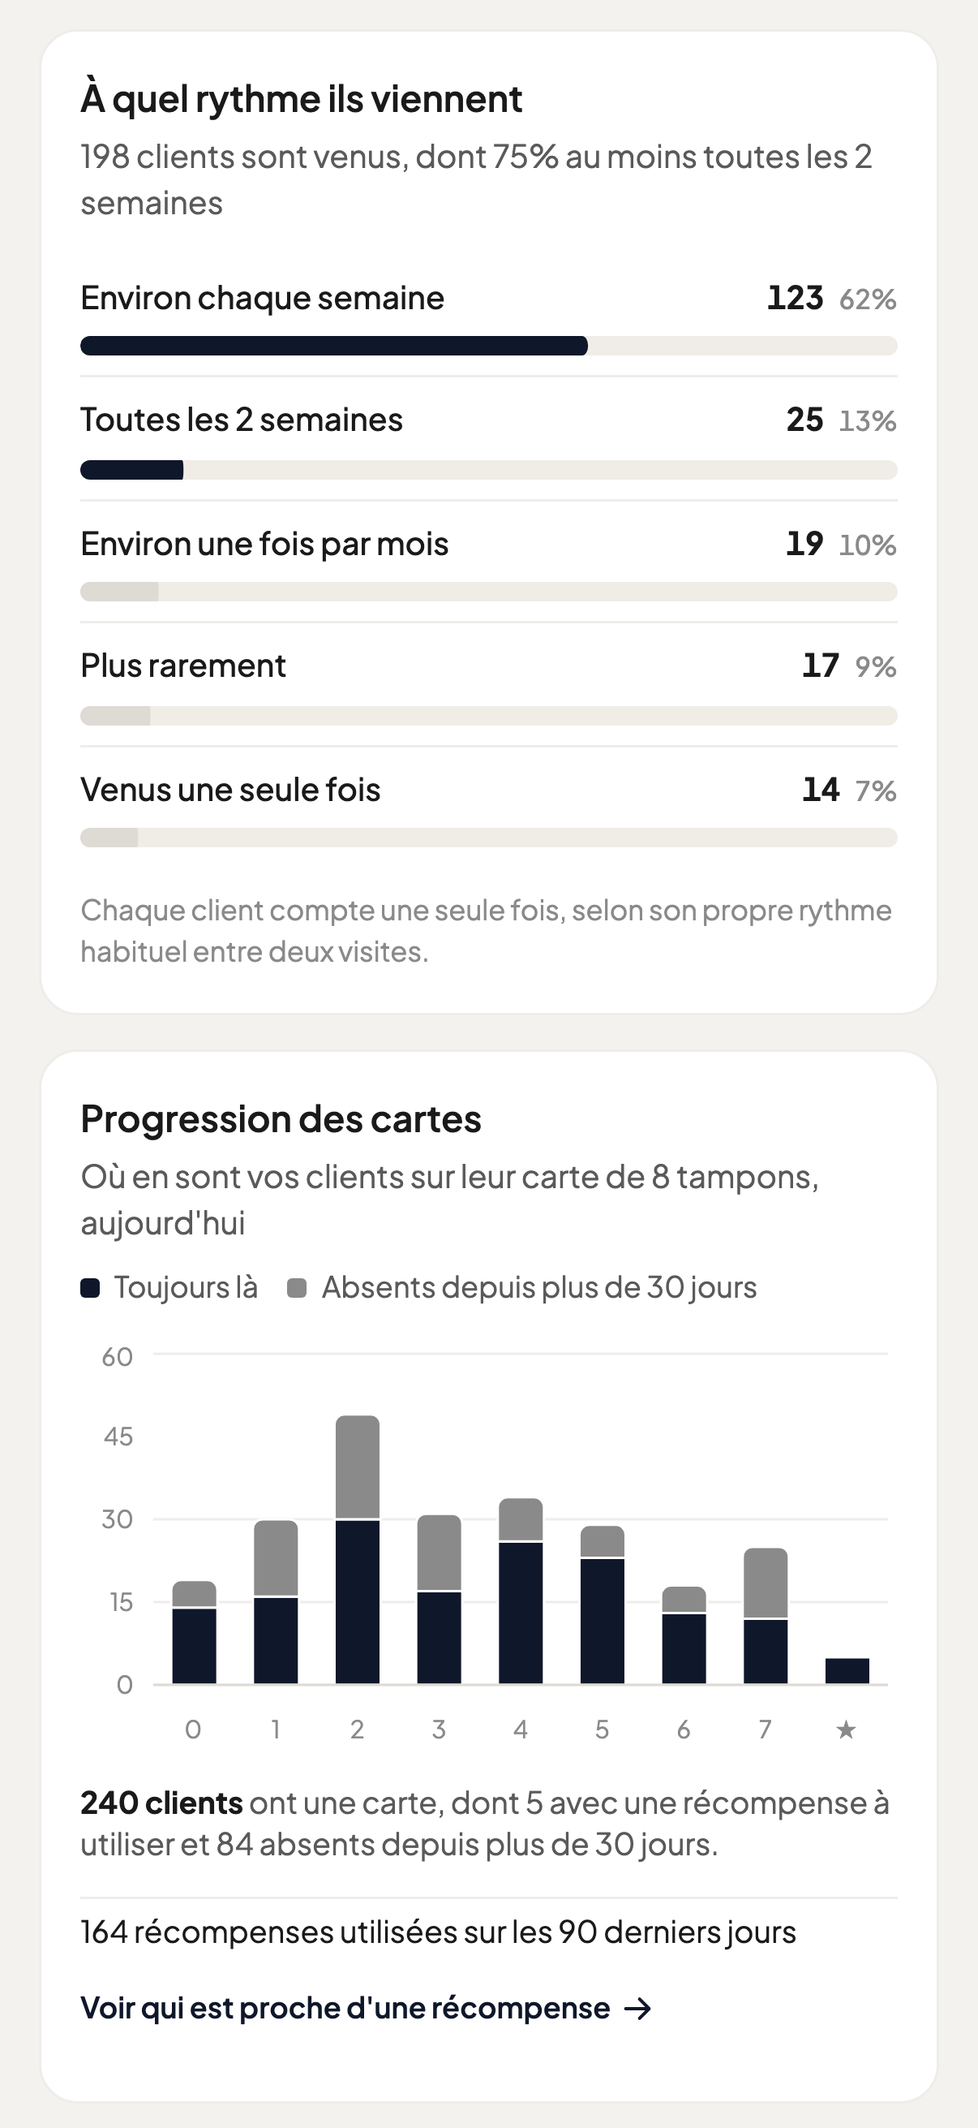
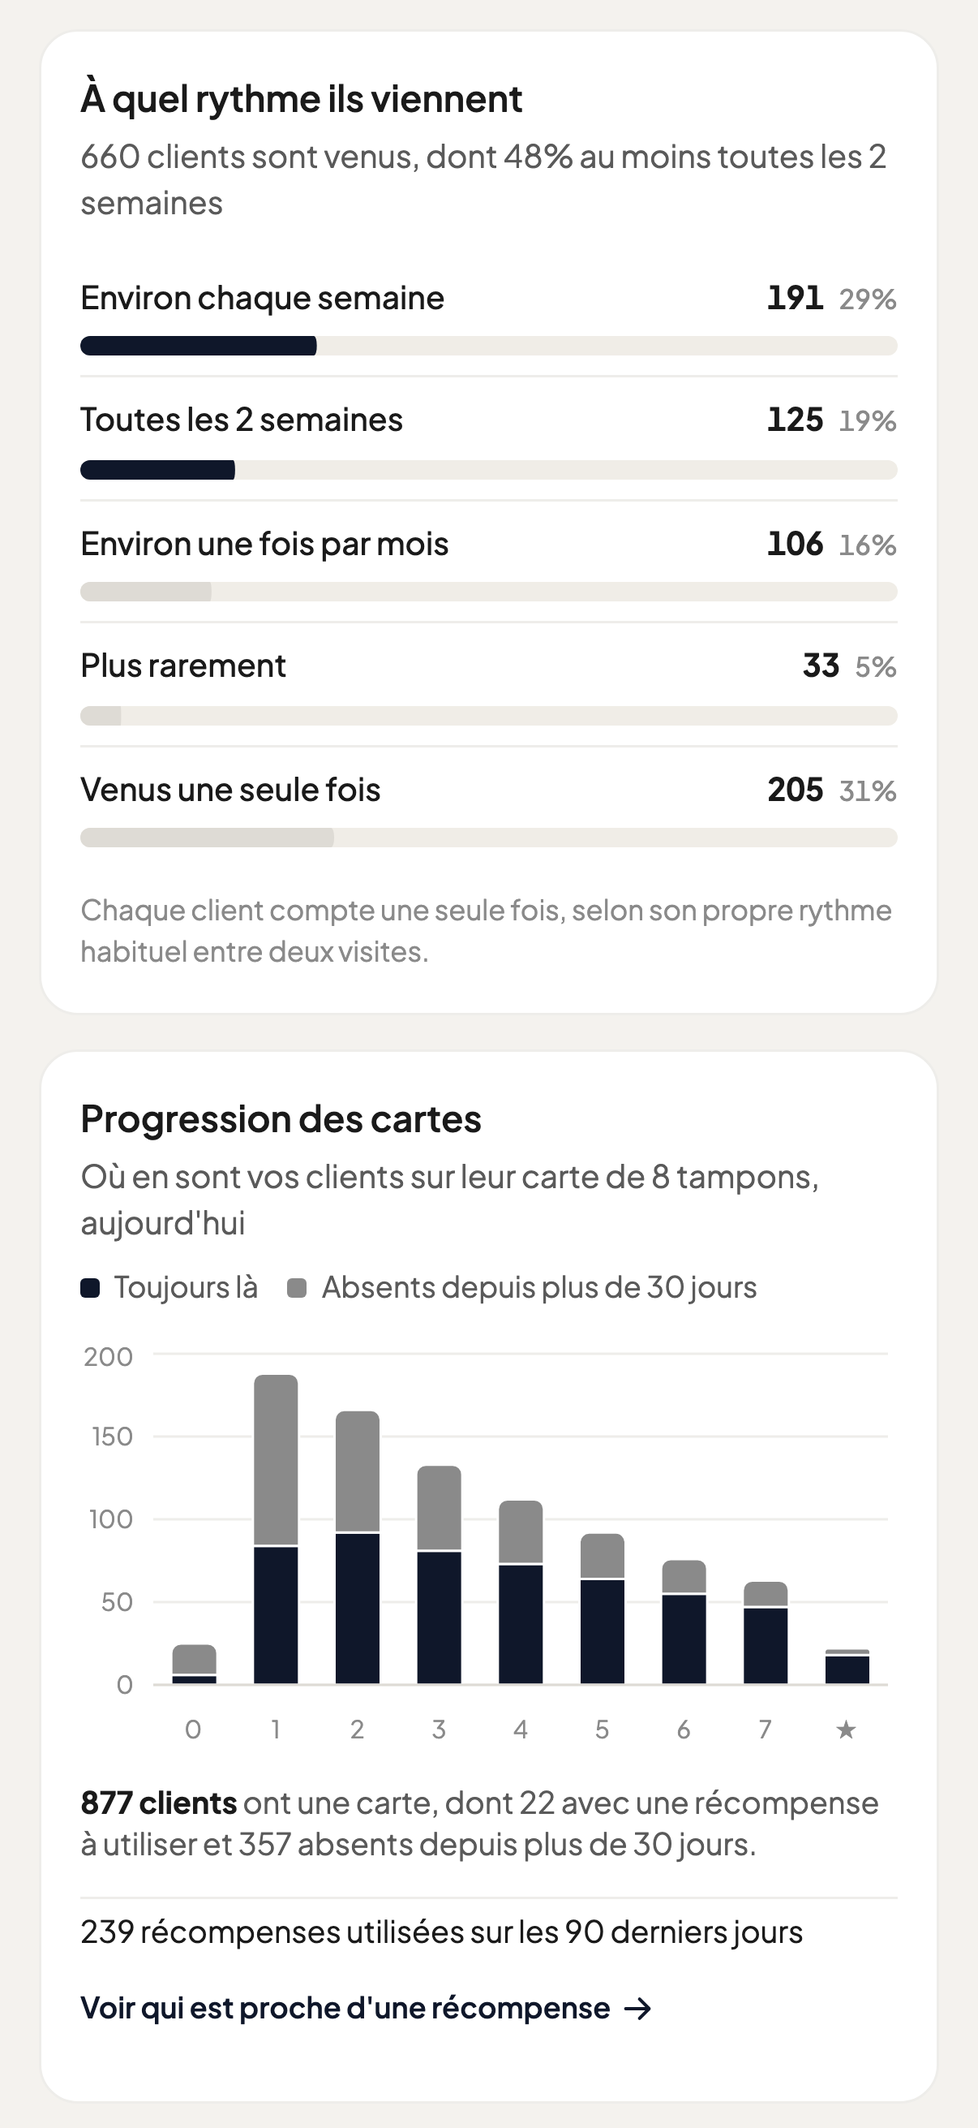
feat(STA-514): a clean dashboard section with realistic numbers
The desktop capture sits in a plain rounded window (no browser bar, no dark
border) and the phone stands on its bottom edge. Under the picture: heading,
one caption and the plan line; the tick list and the handwritten note are gone.
All 16 captures re-shot with a busy café's numbers (promo-videos
showcase-analytics.ts). BrowserFrame had no other user and is deleted.

diff --git a/components/landing-variant/VariantDashboardShot.tsx b/components/landing-variant/VariantDashboardShot.tsx
@@ -4,94 +4,61 @@ import type { Locale } from "@/i18n/routing";
 import { landingShot } from "@/lib/landing/dashboard-shots";
 import { Container } from "../ui/Container";
 import { ScrollReveal } from "../ui/ScrollReveal";
-import { InkArrow, InkNote } from "../ui/InkAnnotation";
-import { BrowserFrame } from "../ui/BrowserFrame";
 import { PhoneScreenshot } from "../ui/PhoneScreenshot";
-import { CheckIcon } from "../icons";
 
 /**
  * The business's half of the product, right under the hero's cards: real
- * captures of the Growth Analytics page (lib/landing-shots.ts). Below md only
- * the phone shows; from md a browser frame carries the desktop capture and the
- * phone overlaps its lower-right corner. From lg the picture leads and the copy
- * sits under it; the DOM order stays heading, picture, points.
+ * captures of the Growth Analytics page (lib/landing/dashboard-shots.ts). Below
+ * md only the phone shows; from md the desktop capture leads and the phone
+ * overlaps its right edge, both standing on the same baseline. The heading and
+ * caption sit under the picture; the DOM keeps the heading first.
  */
 export async function VariantDashboardShot() {
   const t = await getTranslations("variant.dashboard");
   const locale = (await getLocale()) as Locale;
   const desktop = landingShot(locale, "desktop");
   const phone = landingShot(locale, "phone");
-  const points = t.raw("points") as string[];
 
   return (
     <section className="pb-16 lg:pb-24">
       <Container>
-        <div className="grid grid-cols-1 lg:grid-cols-2 gap-x-16 gap-y-10 lg:gap-y-14">
-          <ScrollReveal className="lg:order-2 max-w-xl mx-auto lg:mx-0 text-center lg:text-left">
+        <div className="flex flex-col gap-10 md:gap-12 lg:gap-14 max-w-[1120px] mx-auto">
+          <ScrollReveal className="order-2 grid grid-cols-1 lg:grid-cols-2 gap-x-16 gap-y-4 max-w-xl lg:max-w-none mx-auto lg:mx-0 text-center lg:text-left">
             <h2 className="text-h2 text-balance">{t("title")}</h2>
-            <p className="mt-4 text-lead text-[var(--muted-foreground)]">{t("caption")}</p>
+            <div className="lg:pt-1.5">
+              <p className="text-lead text-[var(--muted-foreground)]">{t("caption")}</p>
+              <p className="mt-3 text-sm text-[var(--muted-foreground)]">{t("planLine")}</p>
+            </div>
           </ScrollReveal>
 
-          <figure className="lg:order-1 lg:col-span-2 w-full lg:max-w-[1120px] mx-auto">
-            {/* The phone hangs past the frame's lower-right corner. Each breakpoint's
-                padding and scale keep its top below the KPI row (about a third
-                of the way down the capture), so it never covers a number. */}
-            <div className="relative md:pr-14 md:pb-28 lg:pr-20 lg:pb-20 xl:pr-24">
-              {/* Not in a ScrollReveal: only its top shows above the fold at
-                  lg, too little for the reveal to fire, and the peek would
-                  stay an empty gap. */}
-              <div className="hidden md:block">
-                <BrowserFrame>
-                  <Image
-                    src={desktop.src}
-                    width={desktop.width}
-                    height={desktop.height}
-                    alt={t("alt.desktop")}
-                    sizes="(min-width: 1024px) 1040px, 650px"
-                    className="block w-full h-auto bg-[var(--muted)]"
-                  />
-                </BrowserFrame>
-              </div>
-
-              <ScrollReveal
-                delay={150}
-                className="flex justify-center md:absolute md:right-0 md:bottom-0 md:block"
-              >
-                <div className="md:origin-bottom-right md:scale-[0.55] lg:scale-[0.68] xl:scale-[0.78]">
-                  <PhoneScreenshot src={phone.src} alt={t("alt.phone")} />
-                </div>
-              </ScrollReveal>
-
-              {/* Points at the phone, which a visitor could take for a
-                  separate app. Its own reveal: the arrow only draws under a
-                  revealed ancestor. */}
-              <ScrollReveal
-                delay={300}
-                className="hidden md:flex absolute bottom-8 lg:bottom-5 right-[168px] lg:right-[206px] xl:right-[236px] items-center gap-1.5"
-              >
-                <InkNote rotate={-2}>{t("annotation")}</InkNote>
-                <InkArrow variant="right" className="w-14" delay={0.5} />
-              </ScrollReveal>
+          {/* The phone overhangs the capture by about half its width. Each
+              breakpoint's scale keeps its top under the KPI row (a third of
+              the way down the capture), so it never covers a number. */}
+          <figure className="order-1 relative md:pr-16 lg:pr-20 xl:pr-24">
+            {/* Not in a ScrollReveal: only its top shows above the fold at
+                lg, too little for the reveal to fire. */}
+            <div className="hidden md:block overflow-hidden rounded-2xl lg:rounded-[20px] bg-[var(--paper-hover)] ring-1 ring-[var(--border)] shadow-[0_2px_4px_rgba(25,18,16,0.04),0_32px_72px_-24px_rgba(25,18,16,0.22)]">
+              <Image
+                src={desktop.src}
+                width={desktop.width}
+                height={desktop.height}
+                alt={t("alt.desktop")}
+                sizes="(min-width: 1280px) 1024px, (min-width: 1024px) 880px, 660px"
+                className="block w-full h-auto"
+              />
             </div>
 
-            <figcaption className="mt-6 md:mt-4 text-sm text-center text-[var(--muted-foreground)]">
-              {t("planLine")}
-            </figcaption>
+            {/* The bezel's PNG leaves 7 pt under the device: the small negative
+                offsets put the device itself on the capture's bottom edge. */}
+            <ScrollReveal
+              delay={150}
+              className="flex justify-center md:block md:absolute md:right-0 md:-bottom-[2px] lg:-bottom-[3px]"
+            >
+              <div className="md:origin-bottom-right md:scale-[0.45] lg:scale-[0.6] xl:scale-[0.7]">
+                <PhoneScreenshot src={phone.src} alt={t("alt.phone")} />
+              </div>
+            </ScrollReveal>
           </figure>
-
-          <ScrollReveal delay={100} className="lg:order-3 w-full max-w-sm md:max-w-md mx-auto lg:max-w-none lg:mx-0 lg:pt-2">
-            <ul className="space-y-4">
-              {points.map((point) => (
-                <li key={point} className="flex items-start gap-3">
-                  <CheckIcon
-                    className="w-5 h-5 mt-0.5 shrink-0 text-[var(--muted-foreground)]"
-                    weight="bold"
-                  />
-                  <span className="text-[var(--foreground)]">{point}</span>
-                </li>
-              ))}
-            </ul>
-          </ScrollReveal>
         </div>
       </Container>
     </section>

diff --git a/lib/landing/dashboard-copy.test.ts b/lib/landing/dashboard-copy.test.ts
@@ -19,6 +19,10 @@ describe("landing dashboard section copy", () => {
     expect(claimOffenders(dashboard(locale), "variant.dashboard", OFF_PICTURE)).toEqual([]);
   });
 
+  it.each(routing.locales)("%s: is a heading, one caption and the plan line, the picture does the rest", (locale) => {
+    expect(Object.keys(dashboard(locale)).sort()).toEqual(["alt", "caption", "planLine", "title"]);
+  });
+
   it.each(routing.locales)("%s: the plan line leads with the captured plan and names only plans with charts", (locale) => {
     const named = plansNamed(dashboard(locale).planLine);
     expect([...named].sort()).toEqual([...tiersWhere((facts) => facts.analyticsCharts)].sort());

diff --git a/docs/qa/landing.md b/docs/qa/landing.md
@@ -37,9 +37,10 @@ Clear site data for `showcase.dev.stampeo.app` (DevTools → Application → Sto
 ### Known state before you start
 
 - **New this round (STA-514):** the dashboard section right after the hero, the numbers strip refresh, the location-notification copy, the Geolocation "Soon" pill, and the hero cards back to the year-round set.
-- **The captures show the 90-day view.** The Aurevo fixture was seeded around 20 Oct 2026, so its last days are empty and the 30-day view led with a red ▼25%. If the fixture is reseeded, re-shoot with LD-14 and look again.
+- **The captures show the 90-day view, with a busy café's numbers.** The dashboard is the real Growth Analytics page signed in as the Aurevo fixture, but its four cards are fed `promo-videos/tools/screens/showcase-analytics.ts` during the capture: a café shaped on prod's best stamp-card cafés and set at the high end of normal (shot 27 Oct 2026: 2,770 visits ▲17%, 460 new customers ▲11%, 61% 30-day return ▲2 pts, a quiet August, 31% of visitors came once). The period always ends on the last full Sunday.
+- **The section is a plain window, not a browser.** The desktop capture has rounded corners, a hairline border and a soft shadow; the phone stands on its bottom edge; the heading, caption and plan line sit under the picture.
 - **Known misses, pending Harry's waiver (they fail LD-04 / LD-13 until waived):**
-  - At 1440×900 the browser bar plus ~14px of screenshot show above the fold on `/en`, `/es`, `/pl`; on `/` only the bar (13px of it below the fold), on `/us` (extra trial line) only part of it. The plan says report, not shrink the hero further. A real 1440×900 laptop's own toolbars take ~110px, so the peek is a 1080p-and-up effect.
+  - At 1440×900 the capture's top shows above the fold by 74px on `/en`, `/es`, `/pl` and 47px on `/`, but only 15px on `/us` (extra trial line). At 1920×1080: 155–215px. The plan says report, not shrink the hero further.
   - At 1920×1080 the desktop capture, not the hero, is the LCP element. It painted at ~870ms with Fast 4G and 4x CPU slowdown (2026-10-26), earlier than the hero's own LCP at 1440. The plan's remedy (an eager ≥768 `<picture>` source) was not built because of that timing.
 - **Hero season:** LD-12 depends on the release date. The year-round cards ship in their own commit, held back if the release goes out before 1 Nov.
 
@@ -55,7 +56,7 @@ Clear site data for `showcase.dev.stampeo.app` (DevTools → Application → Sto
 | DEPENDS | none |
 | ACCOUNT | No session at all. |
 | STEPS | 1. R1. 2. Open `/`, `/en`, `/es`, `/pl`, `/uk`, `/us` at 1440 wide. 3. Scroll from the hero down to "Three reasons" (or its translation). |
-| EXPECT | Hero, then the dashboard section (browser frame + phone), then the "Made in Europe · GDPR" strip, then Benefits. On `/us`: hero, dashboard, Benefits, with NO trust strip. You do NOT see a second dashboard picture anywhere further down the page, and you do NOT see the old mock (invented "1,234 customers", "Sophie M.", "Sophie's coming back tomorrow"). |
+| EXPECT | Hero, then the dashboard section (desktop capture + phone), then the "Made in Europe · GDPR" strip, then Benefits. On `/us`: hero, dashboard, Benefits, with NO trust strip. You do NOT see a second dashboard picture anywhere further down the page, and you do NOT see the old mock (invented "1,234 customers", "Sophie M.", "Sophie's coming back tomorrow"). |
 | RESET | None. |
 
 ### LD-02: Each language shows its own dashboard [CORE]
@@ -66,7 +67,7 @@ Clear site data for `showcase.dev.stampeo.app` (DevTools → Application → Sto
 | DEPENDS | LD-01 |
 | ACCOUNT | No session at all. |
 | STEPS | 1. Open `/`, `/en`, `/es`, `/pl` at 1440 wide and at 390 wide. 2. Read the page title inside the screenshot and the phone. |
-| EXPECT | `/` shows "Statistiques", `/es` "Estadísticas", `/pl` "Statystyki", `/en` (and `/us`, `/uk`) "Analytics", in both the browser frame and the phone. Numbers are formatted the locale's way inside the capture ("1906" in fr/pl, "1,906" in en). You do NOT see an English dashboard on `/`, `/es` or `/pl`, and you do NOT see any customer name or money amount in either image. |
+| EXPECT | `/` shows "Statistiques", `/es` "Estadísticas", `/pl` "Statystyki", `/en` (and `/us`, `/uk`) "Analytics", in both the desktop capture and the phone. Numbers are formatted the locale's way inside the capture ("2770" in fr/pl, "2,770" in en). You do NOT see an English dashboard on `/`, `/es` or `/pl`, and you do NOT see any customer name or money amount in either image. |
 | RESET | None. |
 
 ### LD-03: On a phone, only the phone [CORE]
@@ -77,10 +78,10 @@ Clear site data for `showcase.dev.stampeo.app` (DevTools → Application → Sto
 | DEPENDS | LD-01 |
 | ACCOUNT | No session at all. |
 | STEPS | 1. R1. 2. DevTools device mode at 390×844, Network tab filtered on `dashboard`. 3. Open `/en` and scroll through the section. 4. Repeat on `/`, `/es`, `/pl`. |
-| EXPECT | Heading, caption (three lines at most), the iPhone with the phone capture below its status bar, the plan line under it, then three check-marked points. The Network tab shows `<locale>-phone.png` only. You do NOT see a browser frame, you do NOT see the handwritten note, the Network tab does NOT show a `-desktop.png`, and no locale's page scrolls sideways. |
+| EXPECT | The iPhone with the phone capture below its status bar, then the heading, the caption (four lines at most) and the plan line, centred. The Network tab shows `<locale>-phone.png` only. You do NOT see the desktop capture, check-marked points or a handwritten note, the Network tab does NOT show a `-desktop.png`, and no locale's page scrolls sideways. |
 | RESET | None. |
 
-### LD-04: The frame peeks above the fold on desktop [EDGE]
+### LD-04: The capture peeks above the fold on desktop [EDGE]
 
 | Field | Content |
 |---|---|
@@ -88,7 +89,7 @@ Clear site data for `showcase.dev.stampeo.app` (DevTools → Application → Sto
 | DEPENDS | LD-01 |
 | ACCOUNT | No session at all. |
 | STEPS | 1. R1. 2. Window at 1920×1080, then 1440×900 (DevTools responsive). 3. Load `/en`, `/es`, `/pl`, `/`, `/us` without scrolling. |
-| EXPECT | At 1920×1080 and at 1440×900: the browser bar and the top edge of the screenshot are visible on every page without scrolling. You do NOT see the hero's wallet badges touching or overlapped by the frame. (Known misses at 1440×900 on `/` and `/us`: see Known state.) |
+| EXPECT | At 1920×1080 and at 1440×900: the top of the screenshot (the sidebar and the "Analytics" title) is visible on every page without scrolling. You do NOT see the hero's wallet badges touching or overlapped by the capture. (Known miss at 1440×900 on `/us`: see Known state.) |
 | RESET | None. |
 
 ### LD-05: The section says only what the picture shows [CORE]
@@ -98,8 +99,8 @@ Clear site data for `showcase.dev.stampeo.app` (DevTools → Application → Sto
 | WHY | Analytics shows totals, on Growth. Copy that predicts one customer's return, mentions money, or sells Pro-only charts beside a Growth screenshot is a promise the product does not keep. |
 | DEPENDS | LD-01 |
 | ACCOUNT | No session at all. |
-| STEPS | 1. Read the heading, caption, three points, the line under the image, and the image alt text (inspect the two `<img>`) on all four locales. |
-| EXPECT | The points name visits / new customers / 30-day return rate, visits over time with 90 days of history, and busiest times. The line under the image names the Growth plan and says charts come with Growth and Pro. You do NOT see "Starter" in that line, any prediction ("will come back", "revient demain"), any money or spend, "cohorts", "per location", "1 year", or "export". |
+| STEPS | 1. Read the heading, the caption, the small line under it, and the image alt text (inspect the two `<img>`) on all four locales. |
+| EXPECT | Three pieces of text only: heading, caption, plan line. The plan line names the Growth plan and says charts come with Growth and Pro. You do NOT see "Starter" in that line, any prediction ("will come back", "revient demain"), any money or spend, "cohorts", "per location", "1 year", or "export". |
 | RESET | None. |
 
 ### LD-06: The phone never covers a number [EDGE]
@@ -110,18 +111,18 @@ Clear site data for `showcase.dev.stampeo.app` (DevTools → Application → Sto
 | DEPENDS | LD-01 |
 | ACCOUNT | No session at all. |
 | STEPS | 1. Open `/en`, `/`, `/es`, `/pl` at 768, 1024 and 1440 wide. 2. Look where the phone's top edge sits against the capture (the es/pl KPI labels are the longest). |
-| EXPECT | The phone's top is below the three KPI cards (Visits, New customers, 30-day return rate) at every width; it covers at most the right-hand columns of the "Busiest times" grid. You do NOT see the phone over any KPI figure or its line under it, and it does NOT stick out past the page's right margin. |
+| EXPECT | The phone's top is below the three KPI cards (Visits, New customers, 30-day return rate) at every width; it covers at most the right-hand columns of the "Busiest times" card. You do NOT see the phone over any KPI figure or its line under it, and it does NOT stick out past the page's right margin. |
 | RESET | None. |
 
-### LD-07: The handwritten note points at the phone [EDGE]
+### LD-07: A clean window, one baseline [CORE]
 
 | Field | Content |
 |---|---|
-| WHY | It answers "is the phone a separate app?". It must point at the phone, not into the screenshot. |
+| WHY | Harry's call (27 Oct 2026): the browser chrome and the black bottom border looked cheap, and a phone hanging below the picture looked misaligned. |
 | DEPENDS | LD-06 |
 | ACCOUNT | No session at all. |
-| STEPS | 1. Open `/en`, `/`, `/es`, `/pl` at 768, 1024, 1280 and 1440 wide. 2. Scroll the section into view and wait a second for the arrow to draw. |
-| EXPECT | One handwritten note under the browser frame, left of the phone, with a drawn arrow pointing right at it ("same dashboard, in your pocket" and its translations). You do NOT see the note overlapping the phone, the frame, or the plan line, you do NOT see an undrawn (invisible) arrow, and you do NOT see the note at 390. |
+| STEPS | 1. Open `/en`, `/`, `/es`, `/pl` at 768, 1024, 1280 and 1440 wide. 2. Zoom the browser to 200% on the bottom-right of the picture. |
+| EXPECT | The desktop capture has rounded corners, a hairline beige border and a soft shadow. The device's bottom edge (not its shadow) sits on the capture's bottom edge, within 1px. From 1024 the heading sits left and the caption with its plan line right, both aligned with the picture's edges; below 1024 they are centred. You do NOT see browser dots, an address pill, a dark border under the picture, check-marked points, or a handwritten note. |
 | RESET | None. |
 
 ### LD-08: The numbers strip is current, and the same everywhere [CORE]
@@ -198,7 +199,7 @@ Clear site data for `showcase.dev.stampeo.app` (DevTools → Application → Sto
 | DEPENDS | none |
 | ACCOUNT | `camille@aurevo.seed.stampeo.app` (read via `.env.tools`). |
 | STEPS | 1. Showcase dev server on `bun run publicdev` (or a local `next start` and `SHOWCASE_ORIGIN=http://localhost:<port>`). 2. In `promo-videos/`: `bun --env-file=.env.tools tools/screens/landing-shots.ts --out=/tmp/shots --locales=pl,es`. 3. Open the four files. 4. From a promo-videos worktree, run it again without `--out`. 5. In `showcase/`: `bun test lib/landing/dashboard-shots.test.ts`. |
-| EXPECT | `/tmp/shots/{pl,es}-phone.png` (1206×2622) and `-desktop.png` (2560×1600) exist: the Polish and Spanish Analytics page at 90 days, the desktop one showing the KPI row, Visits over time and Busiest times with no Pro cohorts preview in frame. No trial, over-limit or "What's new" banner or dialog over any of them. Step 4 refuses with a message asking for `--out`. The showcase test passes on the committed files. You do NOT see the login page in an image, and nothing is saved to the fixture's profile (its language stays what it was). |
+| EXPECT | `/tmp/shots/{pl,es}-phone.png` (1206×2622) and `-desktop.png` (2560×1600) exist: the Polish and Spanish Analytics page at 90 days ending on the last Sunday, the desktop one showing the KPI row, Visits over time and Busiest times with no Pro cohorts preview in frame. The numbers are the café's (every KPI up 5–25%, return rate 55–66%, a dip in mid-August), never the fixture's own. Run on a Monday, the chart still ends on a full week, not a one-day stub. No trial, over-limit or "What's new" banner or dialog over any of them. Step 4 refuses with a message asking for `--out`. The showcase test passes on the committed files. You do NOT see the login page in an image, and nothing is saved to the fixture's profile (its language stays what it was). |
 | RESET | None. |
 
 ### LD-15: The other phones on the site [EDGE]
@@ -216,11 +217,11 @@ Clear site data for `showcase.dev.stampeo.app` (DevTools → Application → Sto
 
 | Field | Content |
 |---|---|
-| WHY | The phone and the handwritten note sit in scroll reveals; with reduced motion they must simply be there. |
+| WHY | The phone and the text sit in scroll reveals; with reduced motion they must simply be there. |
 | DEPENDS | LD-01 |
 | ACCOUNT | No session at all. |
 | STEPS | 1. DevTools → Rendering → "Emulate CSS prefers-reduced-motion: reduce". 2. Open `/en` at 1440 and 390 and scroll to the section. |
-| EXPECT | The phone, the note and its arrow (1440) are fully visible at once, with no slide or fade. You do NOT see an empty gap where the phone or note should be. |
+| EXPECT | The phone, the heading and the caption are fully visible at once, with no slide or fade. You do NOT see an empty gap where the phone or the text should be. |
 | RESET | None. |
 
 ---
